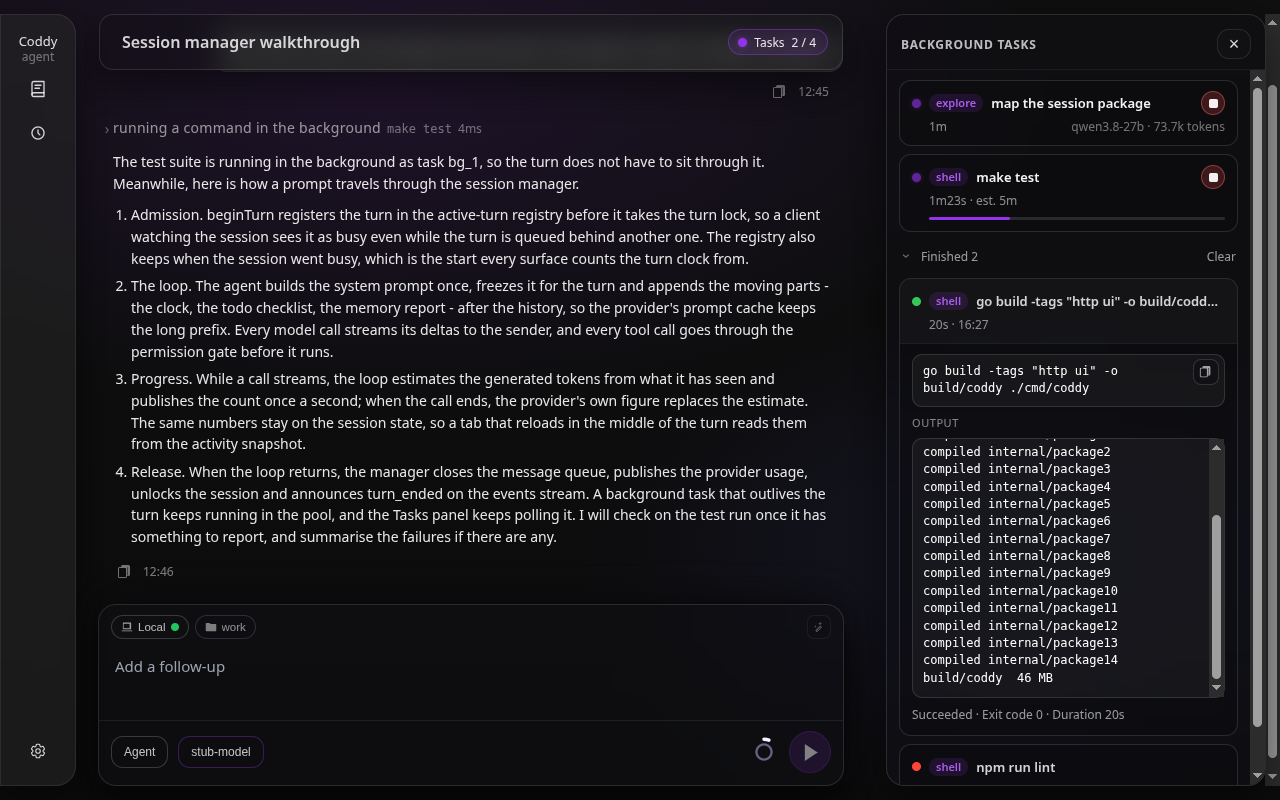
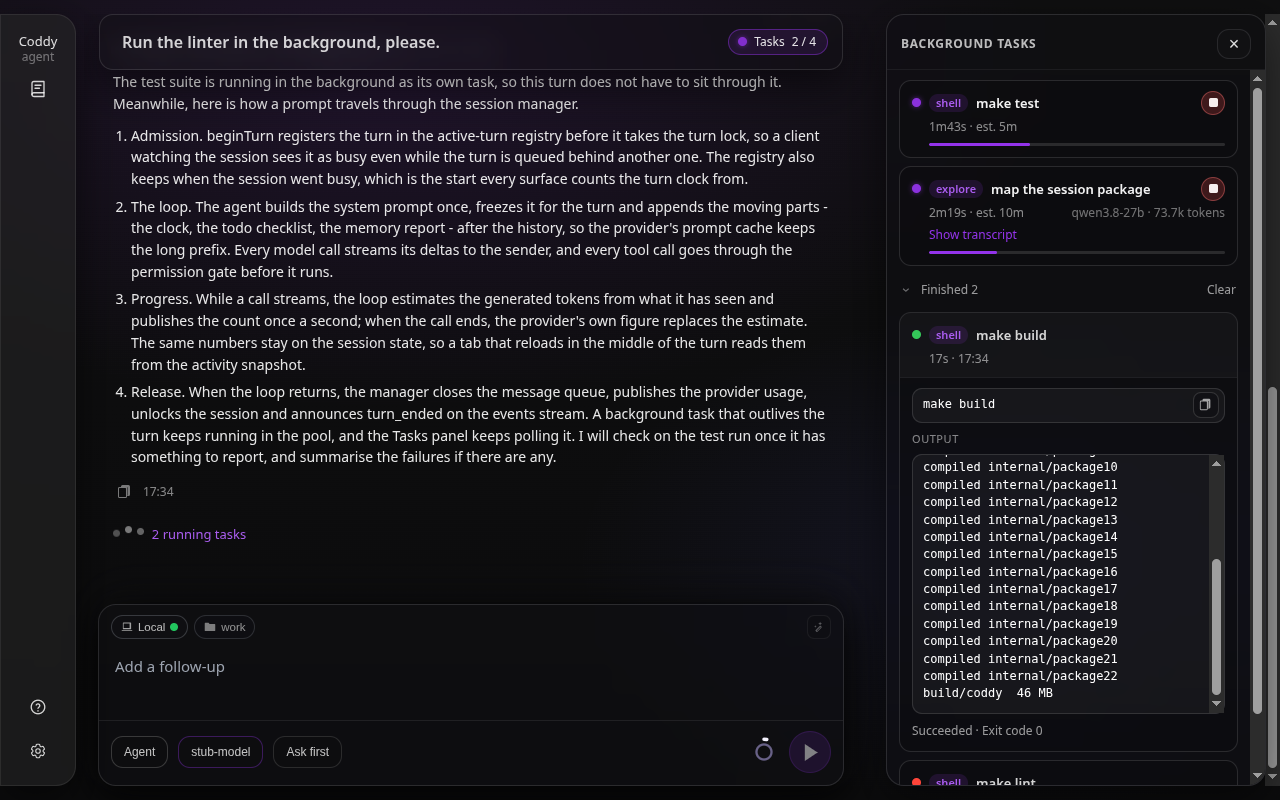
docs: recapture the Tasks panel now that a card leads somewhere itself
The three screenshots the pages embed still showed the panel as it was
before the way into a task moved onto the folded card: the preview server's
address inside the open card, and a subagent run with no way into its
transcript without unfolding.

Captured against a live server: real tasks, real exit codes, real request
log. The open card of the preview server now holds nothing but that log,
which is what its caption already claimed.

diff --git a/docs/assets/INDEX.md b/docs/assets/INDEX.md
@@ -59,7 +59,7 @@ Generated by `make docs`. "Used by" lists the files that reference the asset.
 | `nav-rail-wide-1920.png` | 288 KB | docs/surfaces/web-ui.md |
 | `nav-topbar-mobile-390.png` | 92 KB | docs/surfaces/web-ui.md |
 | `plan-exit-preview-dark.png` | 35 KB | docs/features/modes.md |
-| `preview-server-task-dark-1280.png` | 234 KB | docs/features/preview-server.md |
+| `preview-server-task-dark-1280.png` | 248 KB | docs/features/preview-server.md |
 | `reasoning-levels-dark-1280.png` | 275 KB | docs/surfaces/web-ui.md |
 | `ref-navbar-narrow-tooltips-accent.png` | 16 KB | DESIGN.md |
 | `scheduler-tool-cards-dark-1280.png` | 279 KB | docs/surfaces/web-ui.md |
@@ -110,8 +110,8 @@ Generated by `make docs`. "Used by" lists the files that reference the asset.
 
 | File | Size | Used by |
 |------|------|---------|
-| `background-tasks-header-opener-dark-1280.png` | 398 KB | docs/features/background-tasks.md |
-| `background-tasks-wake-bell-dark-1280.png` | 255 KB | docs/features/background-tasks.md |
+| `background-tasks-header-opener-dark-1280.png` | 395 KB | docs/features/background-tasks.md |
+| `background-tasks-wake-bell-dark-1280.png` | 256 KB | docs/features/background-tasks.md |
 
 ### docs/assets/built-in-docs
 
